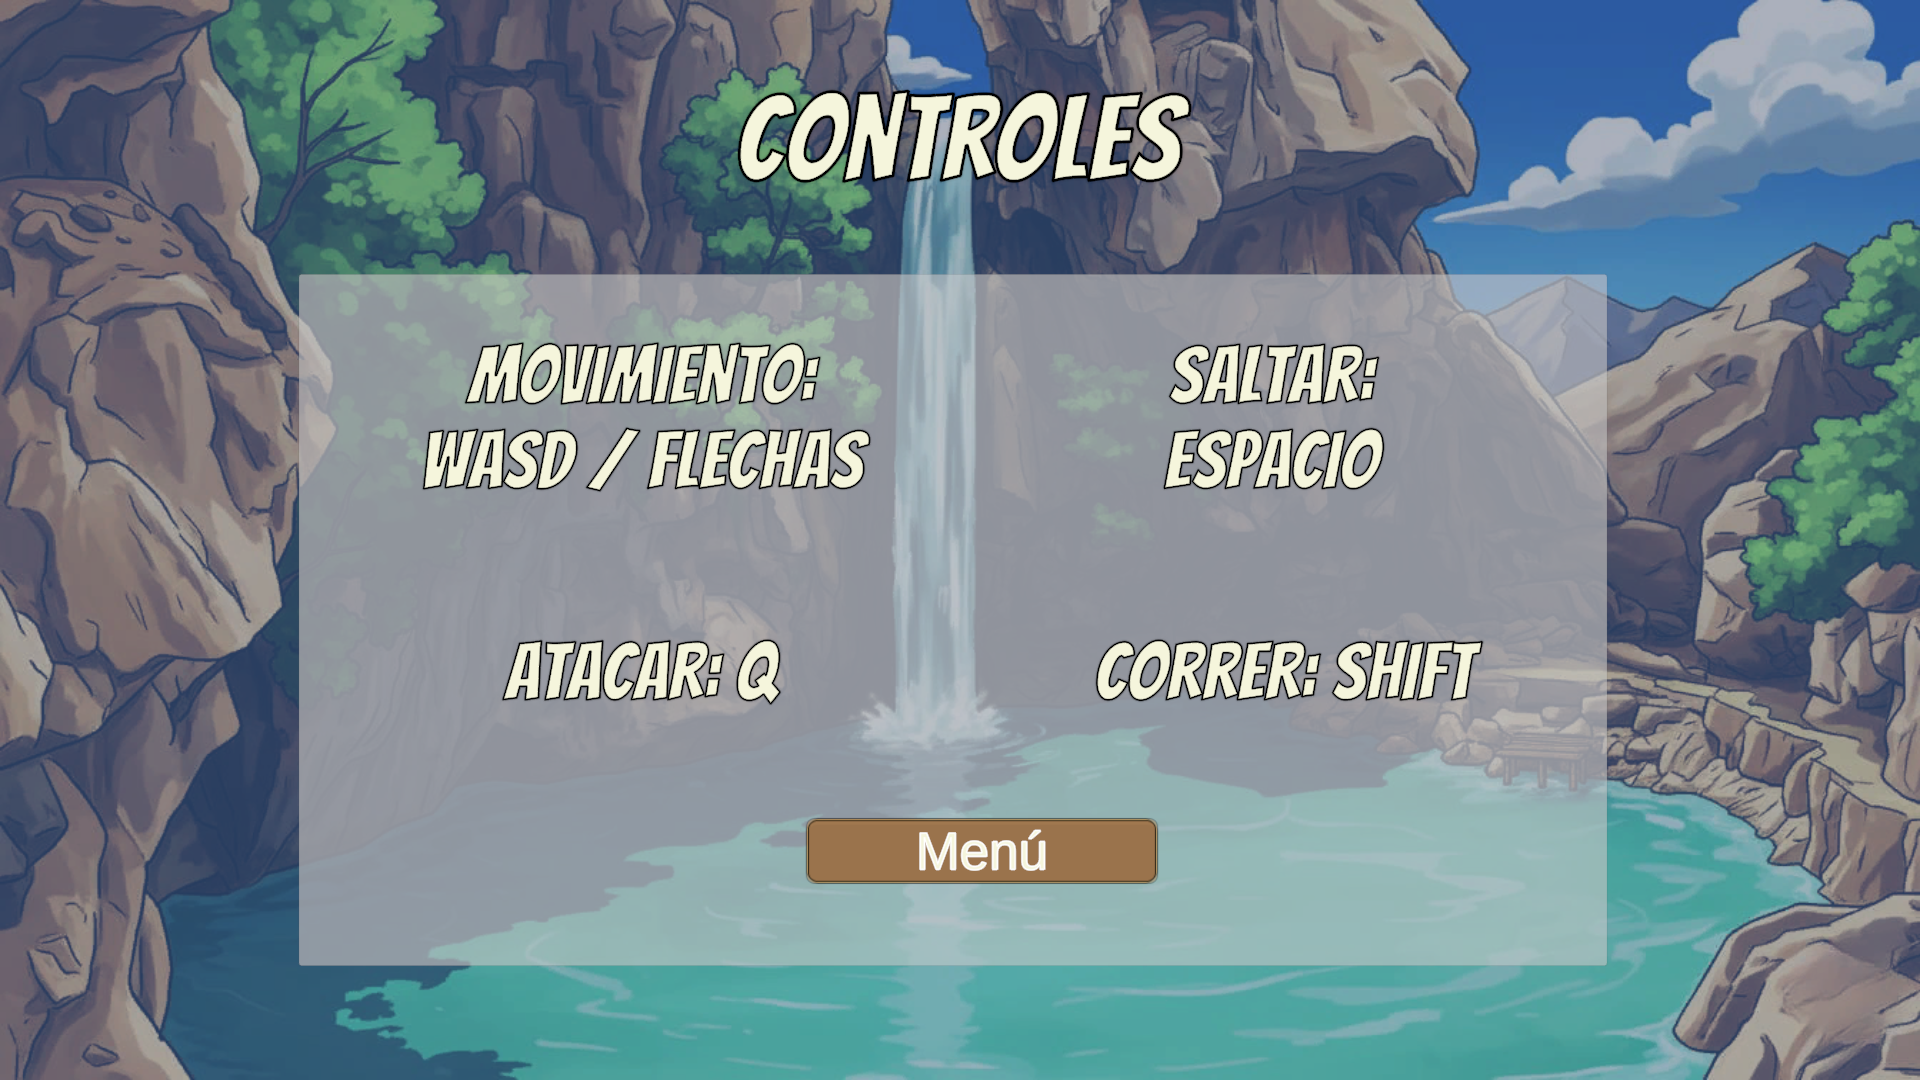
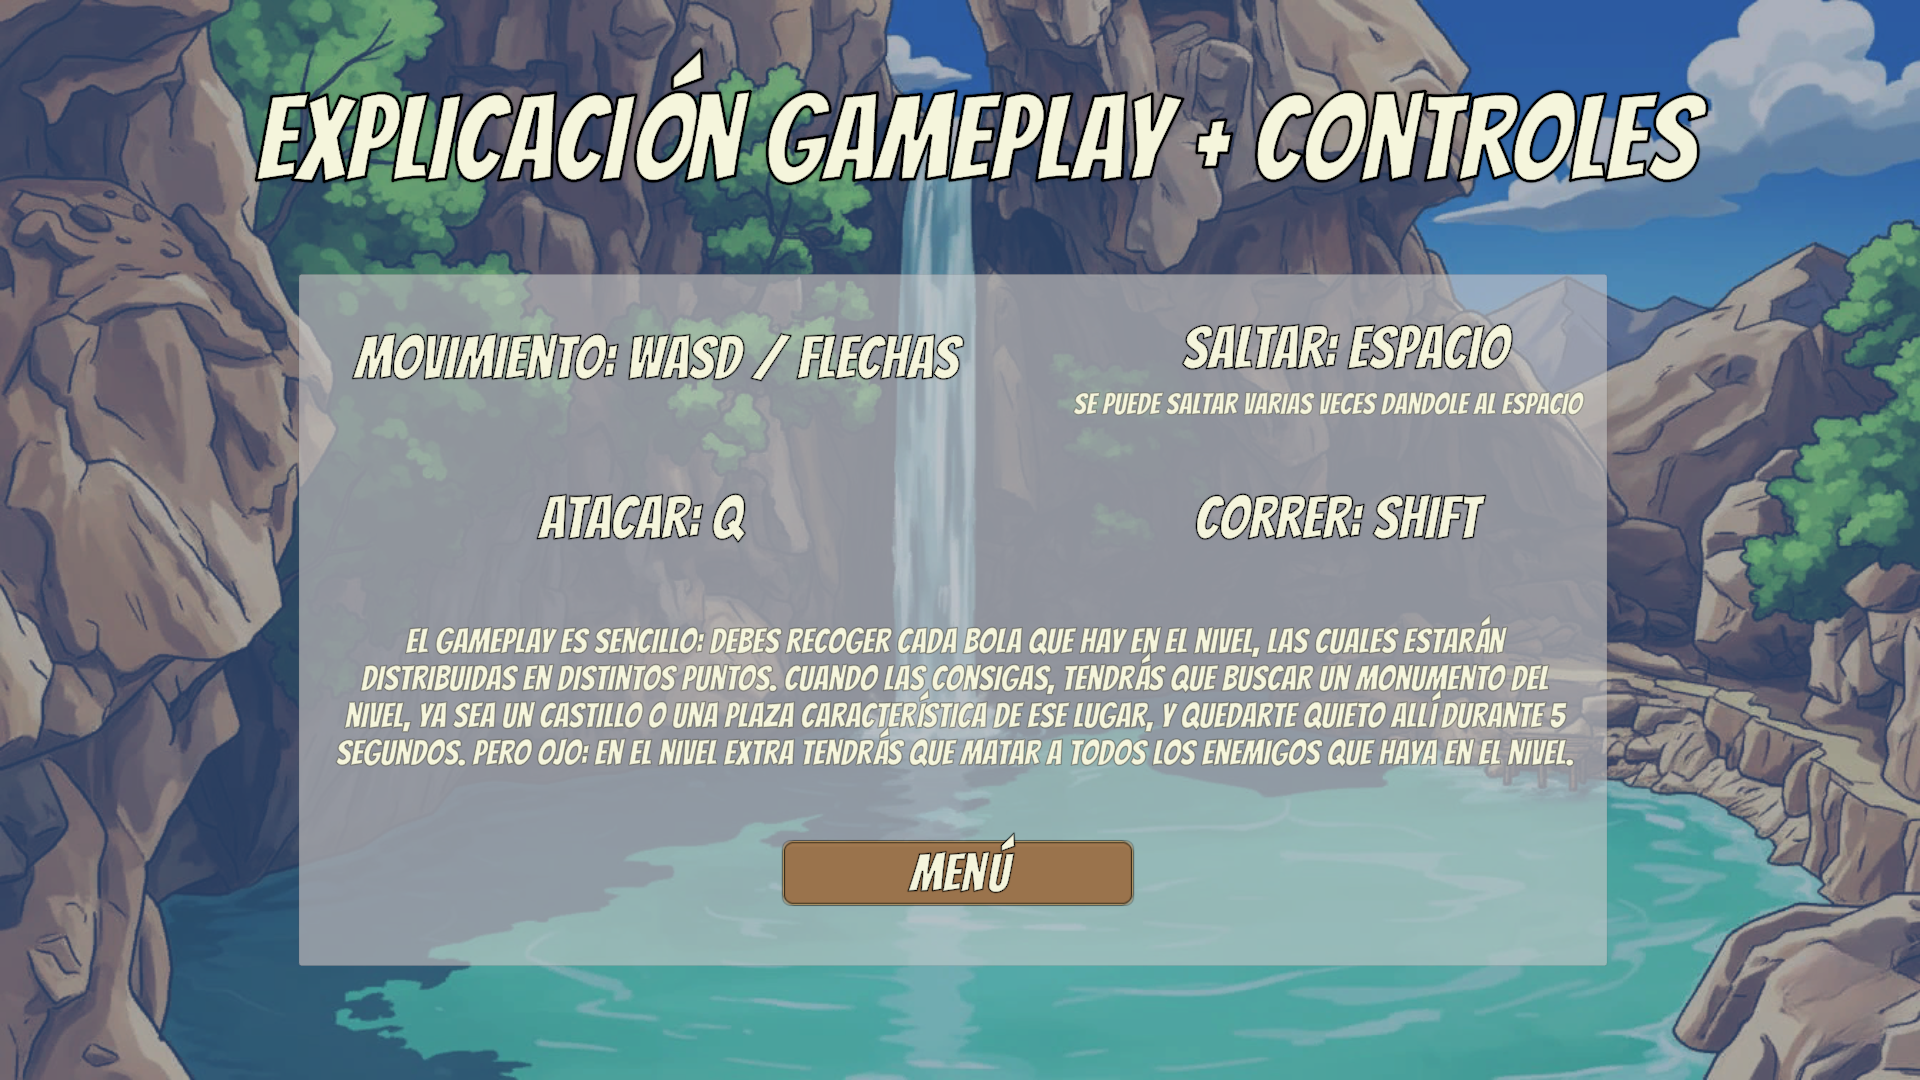
Afterbit V 2.5.4

diff --git a/src/Pages/InterfazyUI.jsx b/src/Pages/InterfazyUI.jsx
@@ -130,17 +130,35 @@ export default function ProtocoloUI({ isDark, currentTextColor }) {
                         className={`absolute ${isEven ? "lg:-right-12 lg:left-auto" : "lg:-left-12"} -left-8 top-0 bottom-0 w-8 flex items-center justify-center`}
                       >
                         <span className="font-mono text-[9px] font-bold text-blue-500 uppercase [writing-mode:vertical-lr] rotate-180 tracking-[0.3em]">
-                          DETALLE
+                          DETALLES
                         </span>
                       </div>
+
+                      {/* Contenedor que se adapta: si hay dos, las pone en grid. Si hay una, ocupa todo */}
                       <div
-                        className={`border-2 ${isDark ? "border-zinc-800" : "border-zinc-200"} overflow-hidden shadow-xl`}
+                        className={`grid ${p.imgExtra2 ? "grid-cols-2" : "grid-cols-1"} gap-4`}
                       >
-                        <img
-                          src={p.imgExtra}
-                          alt="Extra"
-                          className="w-full h-auto"
-                        />
+                        <div
+                          className={`border-2 ${isDark ? "border-zinc-800" : "border-zinc-200"} overflow-hidden shadow-xl`}
+                        >
+                          <img
+                            src={p.imgExtra}
+                            alt="Extra 1"
+                            className="w-full h-auto object-cover"
+                          />
+                        </div>
+
+                        {p.imgExtra2 && (
+                          <div
+                            className={`border-2 ${isDark ? "border-zinc-800" : "border-zinc-200"} overflow-hidden shadow-xl`}
+                          >
+                            <img
+                              src={p.imgExtra2}
+                              alt="Extra 2"
+                              className="w-full h-auto object-cover"
+                            />
+                          </div>
+                        )}
                       </div>
                     </div>
                   )}

diff --git a/src/data/interfaz.js b/src/data/interfaz.js
@@ -2,7 +2,7 @@
 import MenuConcepto from "../Imagenes/Interfaz/Concepto/MenuPrincipal.png";
 import SelectorConcepto from "../Imagenes/Interfaz/Concepto/SelectorNivel.png";
 import CreditosConcpeto from "../Imagenes/Interfaz/Concepto/Creditos.png";
-import ControlesConcepto from "../Imagenes/Interfaz/Concepto/Controles.png";
+import ControlesConcepto from "../Imagenes/Interfaz/Concepto/ControlesGameplay.png";
 import HudConcepto from "../Imagenes/Interfaz/Concepto/Juego.png";
 import PausaGeneralConcepto from "../Imagenes/Interfaz/Concepto/Pausa.png";
 import PausaSelectorConcepto from "../Imagenes/Interfaz/Concepto/PausaSelectorNivel.png";
@@ -19,6 +19,7 @@ import PausaSelectorFinal from "../Imagenes/Interfaz/ResultadoFinal/PausaFinalSN
 import MuerteFinal from "../Imagenes/Interfaz/ResultadoFinal/MuerteFinal.png";
 import MuerteSelectorFinal from "../Imagenes/Interfaz/ResultadoFinal/MuerteFinalSN.png";
 import hud from "../Imagenes/Interfaz/ResultadoFinal/Hud.png";
+import hudExtra from "../Imagenes/Interfaz/ResultadoFinal/HudExtra.png";
 
 export const pantallas = [
   {
@@ -70,11 +71,11 @@ export const pantallas = [
   },
   {
     id: "04",
-    titulo: "Controles",
-    desc: "Mapeo detallado de acciones que puede realizar el jugador en nuestro videojuego.",
-    elementos: ["Texto de controles", "Volver al menu"],
+    titulo: "Explicación Gameplay + Controles",
+    desc: "Mapeo detallado de acciones que puede realizar el jugador en nuestro videojuego y le explicamos como es el gameplay de nuestro videojuego.",
+    elementos: ["Texto de controles", "Texto de explicativo del Gameplay", "Volver al menu"],
     interactividad:
-      "Visual Key Feedback + visualizacion del texto de los controles",
+      "Visual Key Feedback + visualizacion del texto de los controles y del gameplay ",
     justificacion:
       "Buscamos un diseño sencillo y efectivo donde se pueda leer fácilmente a un tamaño de letra adecuado.",
     imgBoceto: ControlesConcepto,
@@ -91,6 +92,7 @@ export const pantallas = [
     imgBoceto: HudConcepto,
     imgFinal: HudFinal,
     imgExtra: hud, // AQUÍ VA TU TERCERA IMAGEN EXTRA
+    imgExtra2: hudExtra, // AQUÍ VA TU CUARTA IMAGEN EXTRA
   },
   {
     id: "06",

diff --git a/src/components/DiagramaSR.jsx b/src/components/DiagramaSR.jsx
@@ -129,7 +129,7 @@ const SRDiagrama = ({ isDark }) => {
     },
     {
       id: "controles",
-      data: { label: "Controles" },
+      data: { label: "Explicación Gameplay más Controles" },
       position: { x: 670, y: 250 },
       style: {
         ...nodeStyle,
@@ -415,7 +415,7 @@ const SRDiagrama = ({ isDark }) => {
             {
               label: "Menús / Info",
               color: colors.accentBlue,
-              desc: "Créditos/Controles",
+              desc: "Explicación Gameplay + Créditos/Controles",
               smallerDesc: true, // Flag para reducir tamaño desc
             },
             {

diff --git a/src/data/estados.js b/src/data/estados.js
@@ -25,9 +25,9 @@ export const estadosData = [
   },
   {
     titulo: "Pantallas de Información",
-    definicion: "Estados de consulta (Créditos / Controles).",
+    definicion: "Estados de consulta (Explicación gameplay, Créditos / Controles).",
     queOcurre:
-      "Mapeo de teclas de Rodolfo (Shift, Q, Espacio, AD) y los creditos del videjuego.",
+      "Mapeo de teclas de Rodolfo (Shift, Q, Espacio, AD), explicamos como es el gameplay y los creditos del videjuego.",
     transicion: "Botón Menú → Menú Principal.",
   },
   {

diff --git a/src/Pages/ProduccionyArquitectura.jsx b/src/Pages/ProduccionyArquitectura.jsx
@@ -72,7 +72,7 @@ export default function Documentacion({ isDark }) {
   useEffect(() => {
     const interval = setInterval(() => {
       nextPage();
-    }, 3000); // Cambio cada 5 segundos
+    }, 5000); // Cambio cada 5 segundos
 
     // Limpieza del intervalo al desmontar o cambiar de página manualmente
     return () => clearInterval(interval);